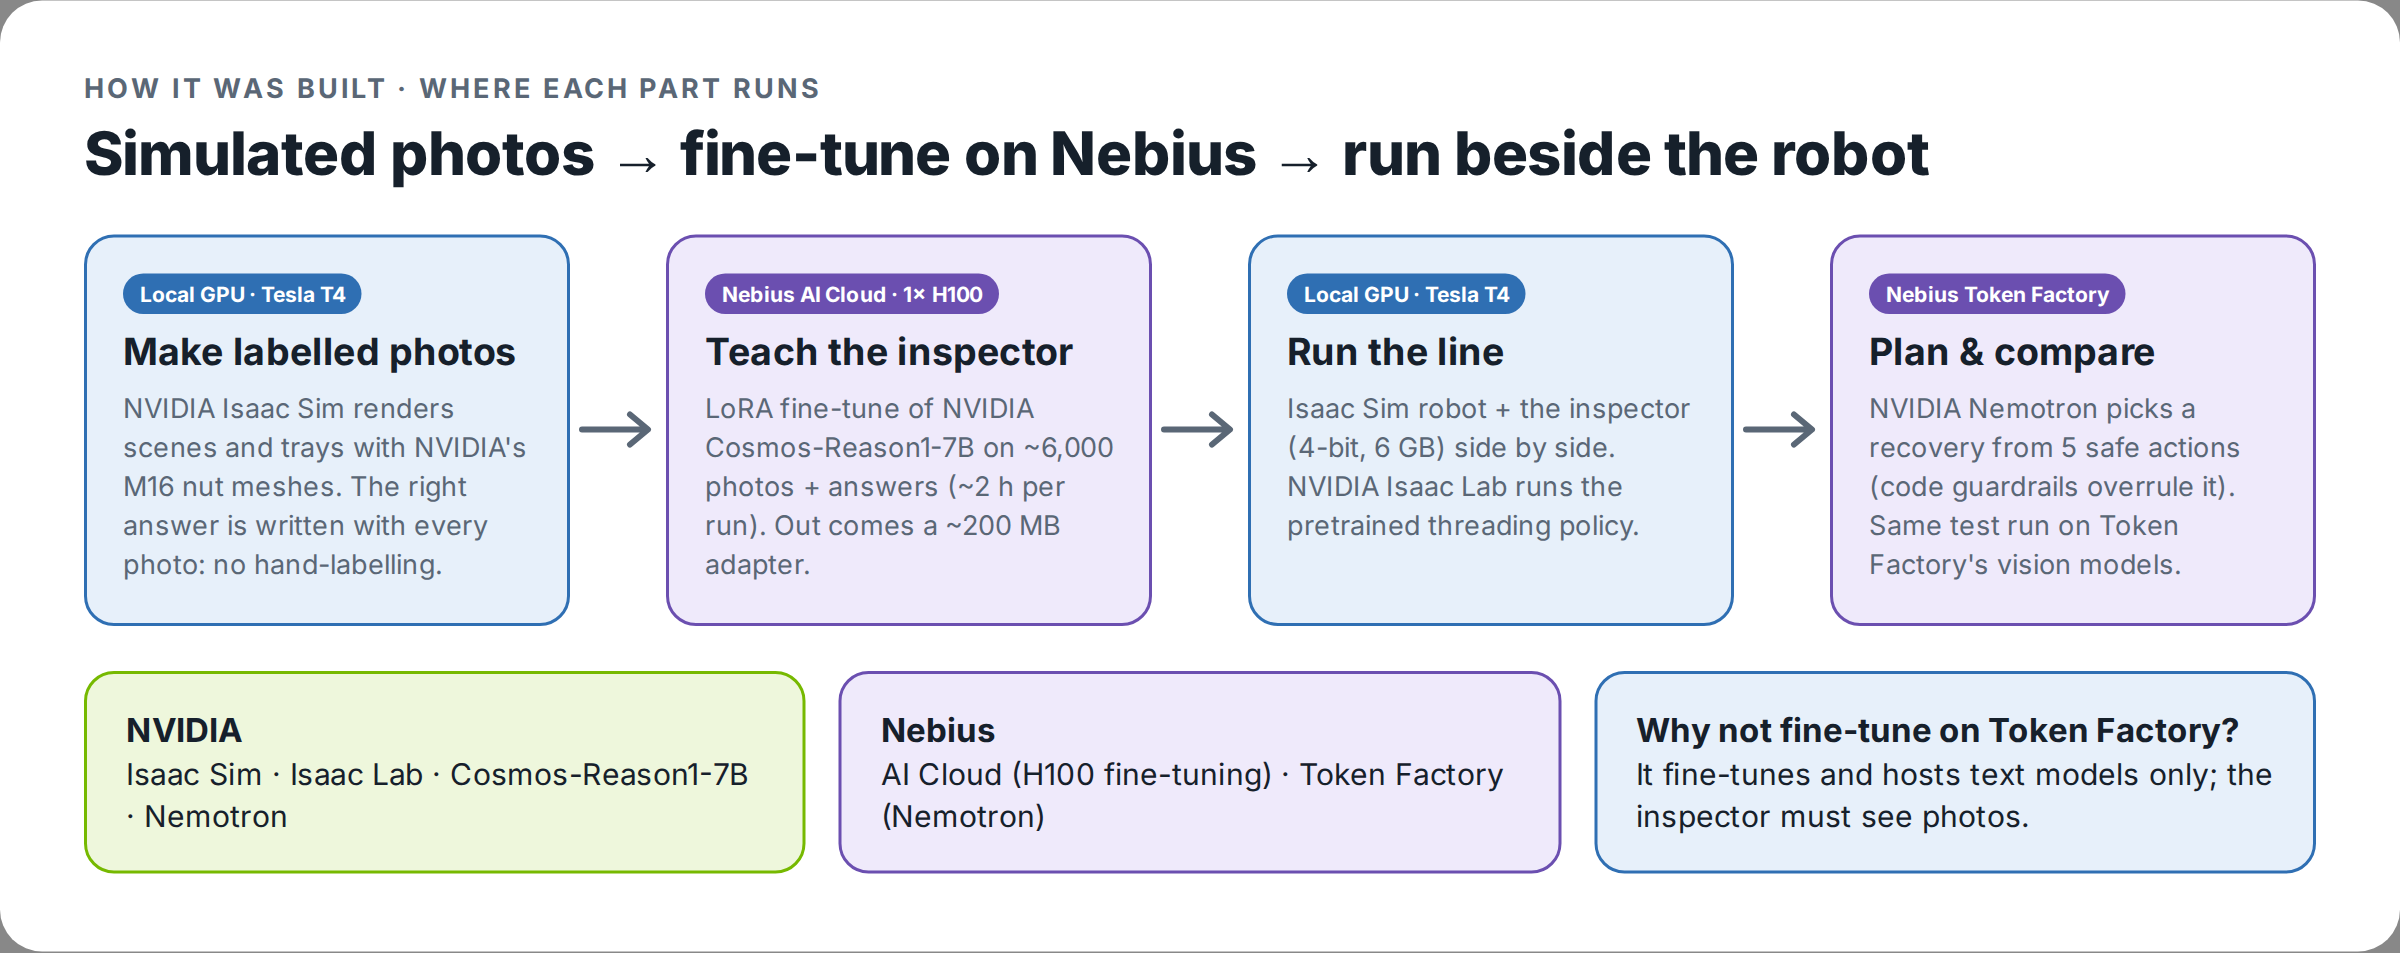
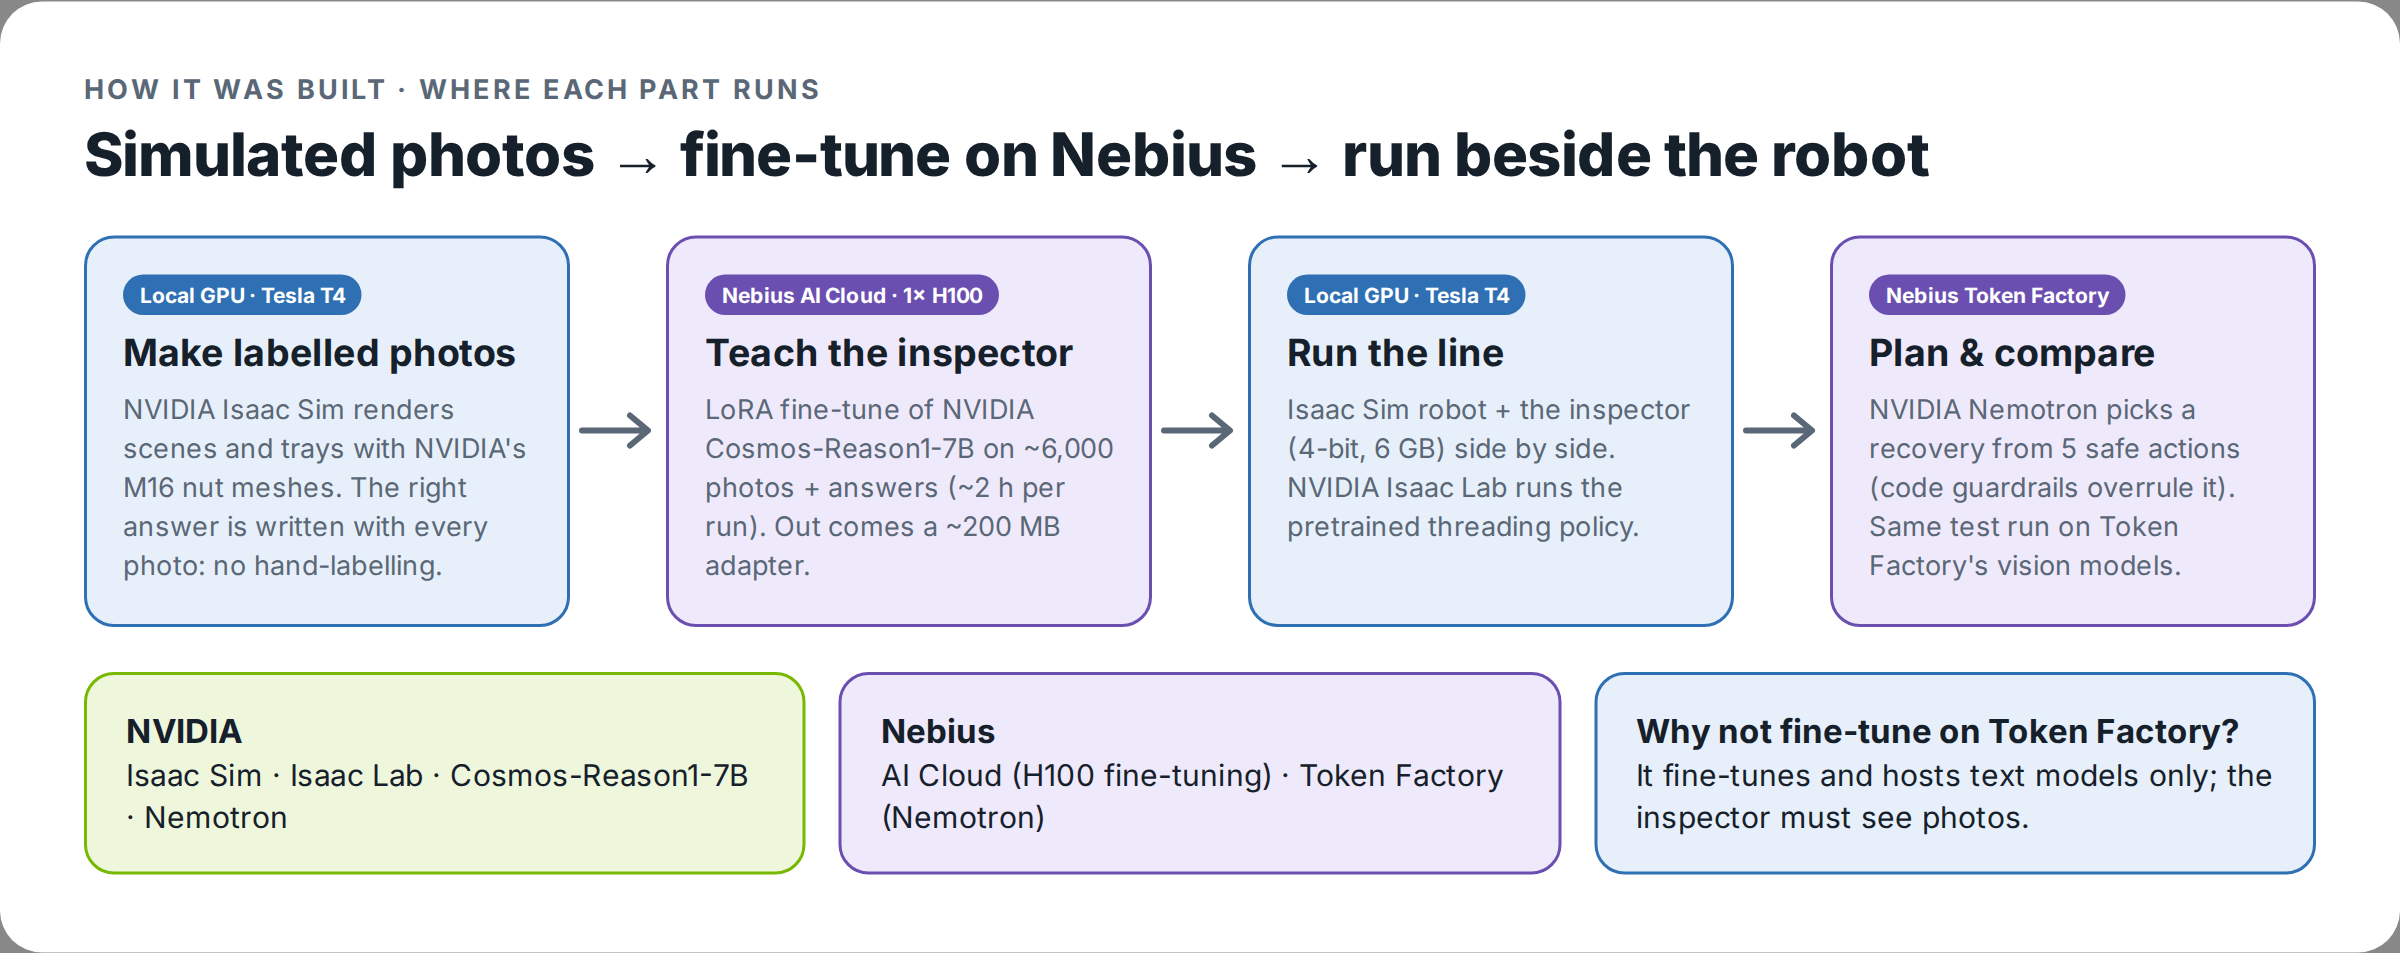
Voice-over builder: take sections from two recordings; re-rendered diagram

diff --git a/scripts/add_voiceover.py b/scripts/add_voiceover.py
@@ -6,7 +6,7 @@ before that part's decision appears. PIECES are (start, end) in the recording, f
 transcribing it with word timestamps, and where each goes: a segment of the video plus an
 offset in seconds. The recording itself is not in the repository.
 
-    .venv/bin/python scripts/add_voiceover.py --voice recording.m4a --out final.mp4
+    .venv/bin/python scripts/add_voiceover.py --voice final_take.m4a --voice-old earlier_take.m4a --out final.mp4
 """
 from __future__ import annotations
 
@@ -20,9 +20,41 @@ sys.path.insert(0, str(Path(__file__).resolve().parent))
 import make_submission_video as M  # noqa: E402
 
 SPEED = 1.45  # the sorting footage, so the whole video stays under 3 minutes
-CARD_SECS = {"title": 4.0, "problem": 18.8, "how": 18.6, "live1": 4.6, "thread_intro": 6.0,
-             "results": 12.0, "honest": 8.5, "end": 9.2}
+CARD_SECS = {"title": 3.0, "problem": 15.6, "how": 19.3, "live1": 6.8, "thread_intro": 5.6,
+             "results": 12.0, "honest": 8.0, "end": 9.0}
+# Final take (Oct 30, 3:24 a.m. recording = "new"), with two sections from the earlier take ("old"):
+# the new take stumbles on "Here it is, running live" and on the results sentence. Pieces are
+# (start, end, segment, offset, source). Footage events (s into the footage, SPEED 1.45): crack top 7.1,
+# underside 10.7, decision 12.4; M12 decision 25.4; M20 38.2; good M16 51.1; bolt 63.4; last nut 76.2.
 PIECES = [
+    (1.0, 2.6, "title", 0.3, "new"),             # "Hi, I'm Garvit Katyal."
+    (6.15, 20.95, "problem", 0.3, "new"),        # skips the spoken heading before "Most factory robots"
+    (23.1, 41.8, "how", 0.3, "new"),             # skips "So how it works?"
+    (40.1, 44.3, "live1", 0.3, "old"),           # "Here it is, running live. The AI decides every nut."
+    (48.55, 55.6, "live1", 4.85, "new"),         # "An operator has just injected a fault..." (runs into the footage)
+    (56.0, 58.36, "footage", 5.45, "new"),       # "...under the top camera" ~ top photo 7.1
+    (58.40, 62.10, "footage", 8.65, "new"),       # "...over the second camera" ~ underside photo 10.7
+    (63.50, 66.42, "footage", 12.55, "new"),      # "From the top it looks perfect..." (decision 12.4)
+    (66.92, 71.50, "footage", 15.67, "new"),     # "...but from below it sees a crack... scrap bin"
+    (72.10, 72.65, "footage", 20.6, "new"),      # "Next,"
+    (73.22, 76.15, "footage", 21.35, "new"),     # "an M12 nut, too small for this job."
+    (76.75, 81.95, "footage", 24.48, "new"),     # "...flags it as the wrong part" (decision 25.4)
+    (82.95, 86.50, "footage", 36.24, "new"),     # M20 "wrong part again" (decision 38.2)
+    (88.05, 93.20, "footage", 47.58, "new"),     # good M16 "both cameras say OK... green rack" (decision 51.1)
+    (94.45, 97.50, "footage", 61.2, "new"),      # bolt "rejected" (decision 63.4)
+    (97.80, 99.90, "footage", 75.12, "new"),     # "One more good nut: accepted." (decision 76.2)
+    (100.45, 105.70, "footage", 77.45, "new"),   # "Every decision comes with a written reason..." (runs into the card)
+    (106.40, 107.40, "thread_intro", 2.85, "new"),   # "Good nuts"
+    (108.20, 125.65, "thread_intro", 4.1, "new"),    # "...47 out of 48..." inside the threading clip
+    (117.9, 129.3, "results", 0.3, "old"),       # results sentence
+    (139.5, 146.55, "honest", 0.3, "new"),
+    (150.65, 155.95, "end", 0.3, "new"),         # clean retake of the closing line (hesitant take dropped)
+    (157.85, 159.70, "end", 6.05, "new"),        # "The code is on GitHub. Thanks for watching." (a click before it dropped)
+]
+# Pieces for the earlier take alone (Oct 30, 1:49 a.m.), with its card durations, kept for reference:
+CARD_SECS_OLD = {"title": 4.0, "problem": 18.8, "how": 18.6, "live1": 4.6, "thread_intro": 6.0,
+                 "results": 12.0, "honest": 8.5, "end": 9.2}
+PIECES_OLD = [
     (0.0, 3.4, "title", 0.3),          # introduction
     (3.55, 21.8, "problem", 0.3),
     (21.9, 40.0, "how", 0.3),
@@ -48,7 +80,8 @@ def duration(path: Path) -> float:
 
 def main() -> None:
     ap = argparse.ArgumentParser()
-    ap.add_argument("--voice", type=Path, required=True)
+    ap.add_argument("--voice", type=Path, required=True, help="the final take (pieces marked 'new')")
+    ap.add_argument("--voice-old", type=Path, help="the earlier take (pieces marked 'old')")
     ap.add_argument("--out", type=Path, required=True)
     args = ap.parse_args()
     parts: list[tuple[str, float]] = []
@@ -73,14 +106,25 @@ def main() -> None:
         for name, secs in parts:
             starts[name], clock = clock, clock + secs
         filters, labels = [], []
-        for i, (a, b, seg, off) in enumerate(PIECES):
+        inputs = {"new": (1, args.voice), "old": (2, args.voice_old)}
+        used = {src: [i for i, pc in enumerate(PIECES) if pc[4] == src] for src in inputs}
+        for src, (idx, path) in inputs.items():
+            if not used[src]:
+                continue
+            assert path, f"pieces use the {src} recording: pass --voice-old"
+            # each recording is loudness-normalised on its own first, so the two takes sound alike
+            outs = "".join(f"[s{i}]" for i in used[src])
+            filters.append(f"[{idx}:a]aformat=channel_layouts=mono,loudnorm=I=-16:TP=-2:LRA=11,aresample=48000,"
+                           f"asplit={len(used[src])}{outs}")
+        for i, (a, b, seg, off, _src) in enumerate(PIECES):
             at = int((starts[seg] + off) * 1000)
-            filters.append(f"[1:a]atrim={a}:{b},asetpts=PTS-STARTPTS,adelay={at}|{at}[p{i}]")
+            filters.append(f"[s{i}]atrim={a}:{b},asetpts=PTS-STARTPTS,adelay={at}|{at}[p{i}]")
             labels.append(f"[p{i}]")
         filters.append("".join(labels) + f"amix=inputs={len(labels)}:normalize=0,aformat=channel_layouts=mono,"
                        "highpass=f=70,loudnorm=I=-16:TP=-2:LRA=11,alimiter=limit=0.79:level=false,"
                        f"apad,atrim=0:{clock:.2f}[a]")
         subprocess.run(["ffmpeg", "-loglevel", "error", "-y", "-i", str(silent), "-i", str(args.voice),
+                        *(["-i", str(args.voice_old)] if args.voice_old else []),
                         "-filter_complex", ";".join(filters), "-map", "0:v", "-map", "[a]",
                         "-c:v", "libx264", "-profile:v", "main", "-level", "4.0", "-pix_fmt", "yuv420p", "-crf", "20",
                         "-c:a", "aac", "-b:a", "160k", "-ar", "48000", "-movflags", "+faststart", str(args.out)],
